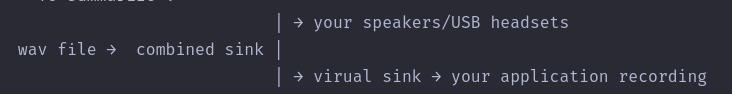
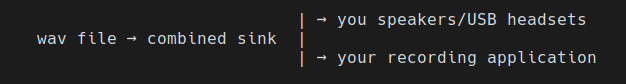
README Update

diff --git a/README.md b/README.md
@@ -9,15 +9,16 @@
 
 Fake is a pulseaudio client that can inject wav files like a microphone to any recording app on linux.
 
-
-# Suckless building 
-
-  - Like suckless apps, Fake can be built with just `make`
-  - You'll get a single executable.
+# Meson Building 
+  To build it, run : 
+  ```sh
+  meson setup build
+  ninja -C build
+  ninja -C install
+  ```
 
 # How does it work
- - Fake creates a virtual empty sink and a virtual combined sink. Pulseaudio sinks are basically just the devices in which you can output sound, it can be your USB headphones, you speakers or some virtual stuff. In our case, the empty sink is connected to no "real hardware". The combined sink forwards its audio to its slave sinks. This combination feature of pulseaudio is used to be able to play the wav file both in the virtual sink and in "real hardware" sinks so that you can also hear what is played.
- - Then fake connects the source stream of your application(=source-output in PulseAudio terminolgy) to the source of the virtual sink (the monitor of the virtual sink to be exact). Now everything that is played in the virtual sink enters the recording of your application.
+ - Fake creates a virtual combined sink. Pulseaudio sinks are basically just the devices in which you can output sound, it can be your USB headphones, you speakers or some virtual stuff. The combined sink forwards its audio to its slave sinks. Furthermore, we connect the recording application to the monitor of this combined sink. This combination feature of pulseaudio is used to play the wav file both in the recording application and in "real hardware" sinks so that you can also hear what is played.
  - Now fake can just play the wav file to the combined sink.
  - To summarize :
 ![Summarized Schema](icons/schema.png "schema")
@@ -27,10 +28,20 @@ Fake is a pulseaudio client that can inject wav files like a microphone to any r
 If you prefer using a GUI, you can use Control's for Fake GUI frontend. [Control's for Fake link](https://github.com/SCOTT-HAMILTON/ControlsForFake) .
 	
 ## The hard way
+```
+Usage: FakeMicWavPlayer [options] wav file process binary
 
-`./FakeMicWavPlayer <WavFile> [pulseaudio sinks]`
+Positional arguments:
+wav file        The wav audio file to play.
+process binary  The binary name of the app to send the sound to.
+
+Optional arguments:
+-h --help       show this help message and exit
+-s --sink-list  The comma-sepatated list of sinks to play the wav file to.
+```
 
   - The wav file is an audio file in PCM_S16_LE (PCM 16 bit integers little-endian)
+  - The process binary is the binary-filename of your recording app. In the case of discord, on most linux distributions you will set it to `Discord` (some exceptions exist like in NixOS where the binary wrapping changes the binary name, you would set it to `.Discord-wrapped`)
   - The optional pulseaudio sinks is a comma separated list of pulseaudio sinks that you want Fake to play in alongside with the virtual sink. This option should be used if you want to hear the wav file played. To know which values you can put, plug the device you want to listen on (if it's not an internal device) and run `pactl list short sinks`. The second column of the table contains the names of all your devices. You just have to copy them. Here is an example : 
   
    > The output of pactl is for me : 
@@ -42,32 +53,8 @@ If you prefer using a GUI, you can use Control's for Fake GUI frontend. [Control
   
    > So if I wan't to hear the wav on my sennheiser headsets and on my internal speakers, I would run : 
   
-  ```./FakeMicWavPlayer MyWav.wav alsa_output.pci-0000_00_1f.3.analog-stereo,alsa_output.usb-Sennheiser_Sennheiser_SC60_for_Lync_55ef416267-00.analog-stereo```
+  `./FakeMicWavPlayer -s alsa_output.pci-0000_00_1f.3.analog-stereo,alsa_output.usb-Sennheiser_Sennheiser_SC60_for_Lync_55ef416267-00.analog-stereo MyWav.wav MyRecordingAppBinaryName `
   
-
-
-### Change the recording application
-
-By default Fake will try to find the Discord app recording but you can change that easily.
-
- - The application is hard coded in the first lines of codes of the `main.c` file : 
-```c
-#include "player.h"
-
-...
-
-// User defined control fields
-static const char* sourceProcessBinary          = "Discord";
-```
- - This is the process binary of your application. To know which value you should replace it with, start the recording on your application, run `pactl list source-outputs | grep application.process.binary`. You should have a list of all the app binaries that are recording. If I run discord's mic test, I get this output from pactl : 
-
-```	
-	application.process.binary = "Discord"
-```
-
-The value that I would take is the app binary in the double-quotes.
- - Now that you know which value to use, you can replace the one in `main.c` to yours.
- - Finally you can recompile with `make`
 
 ### Requirements
 
